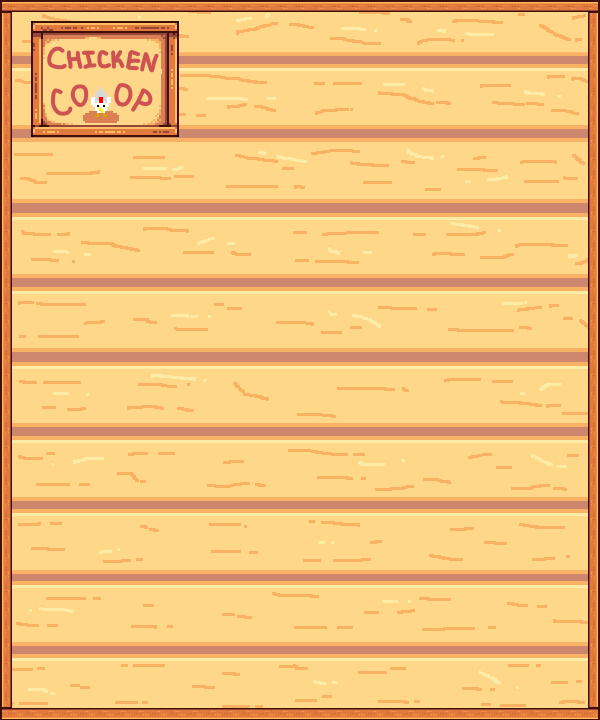
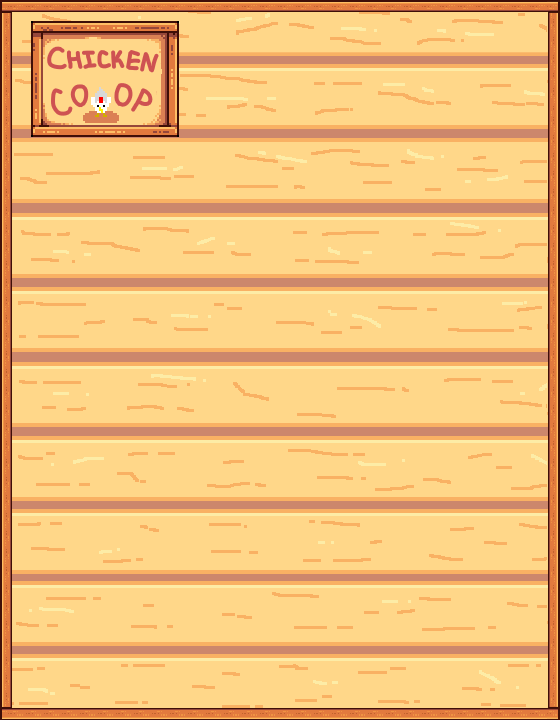
MAY 8 Build 1 REAL
Ready for release version. Seemingly bug free with full UI visuals.
Scrolling on sidebar disabled due to lack of features and bugginess in current build.

* Updated sidebar, had wrong dimensions in previous version.

diff --git a/chickenGame/game.py b/chickenGame/game.py
@@ -106,7 +106,7 @@ class Game:
         pixels_moved = 0
         size_factor = 720 / self.resolution
         next_turn = Button(self, "press", False, 25, 585, 148, 116, 'newnext')
-        expand_plot = Button(self, 'press', False, 285, 155, 264, 108, 'expand')
+        expand_plot = Button(self, 'press', False, 280, 155, 264, 108, 'expand')
         money_display = Button(self, "press", False, 338, 25, 200, 100, 'newmoneyshow')
         buy_chicken = Button(self, "press", False, 185, 600, 177, 87, 'newbuy')
         buy_rooster = Button(self, "press", False, 362, 600, 177, 87, None)
